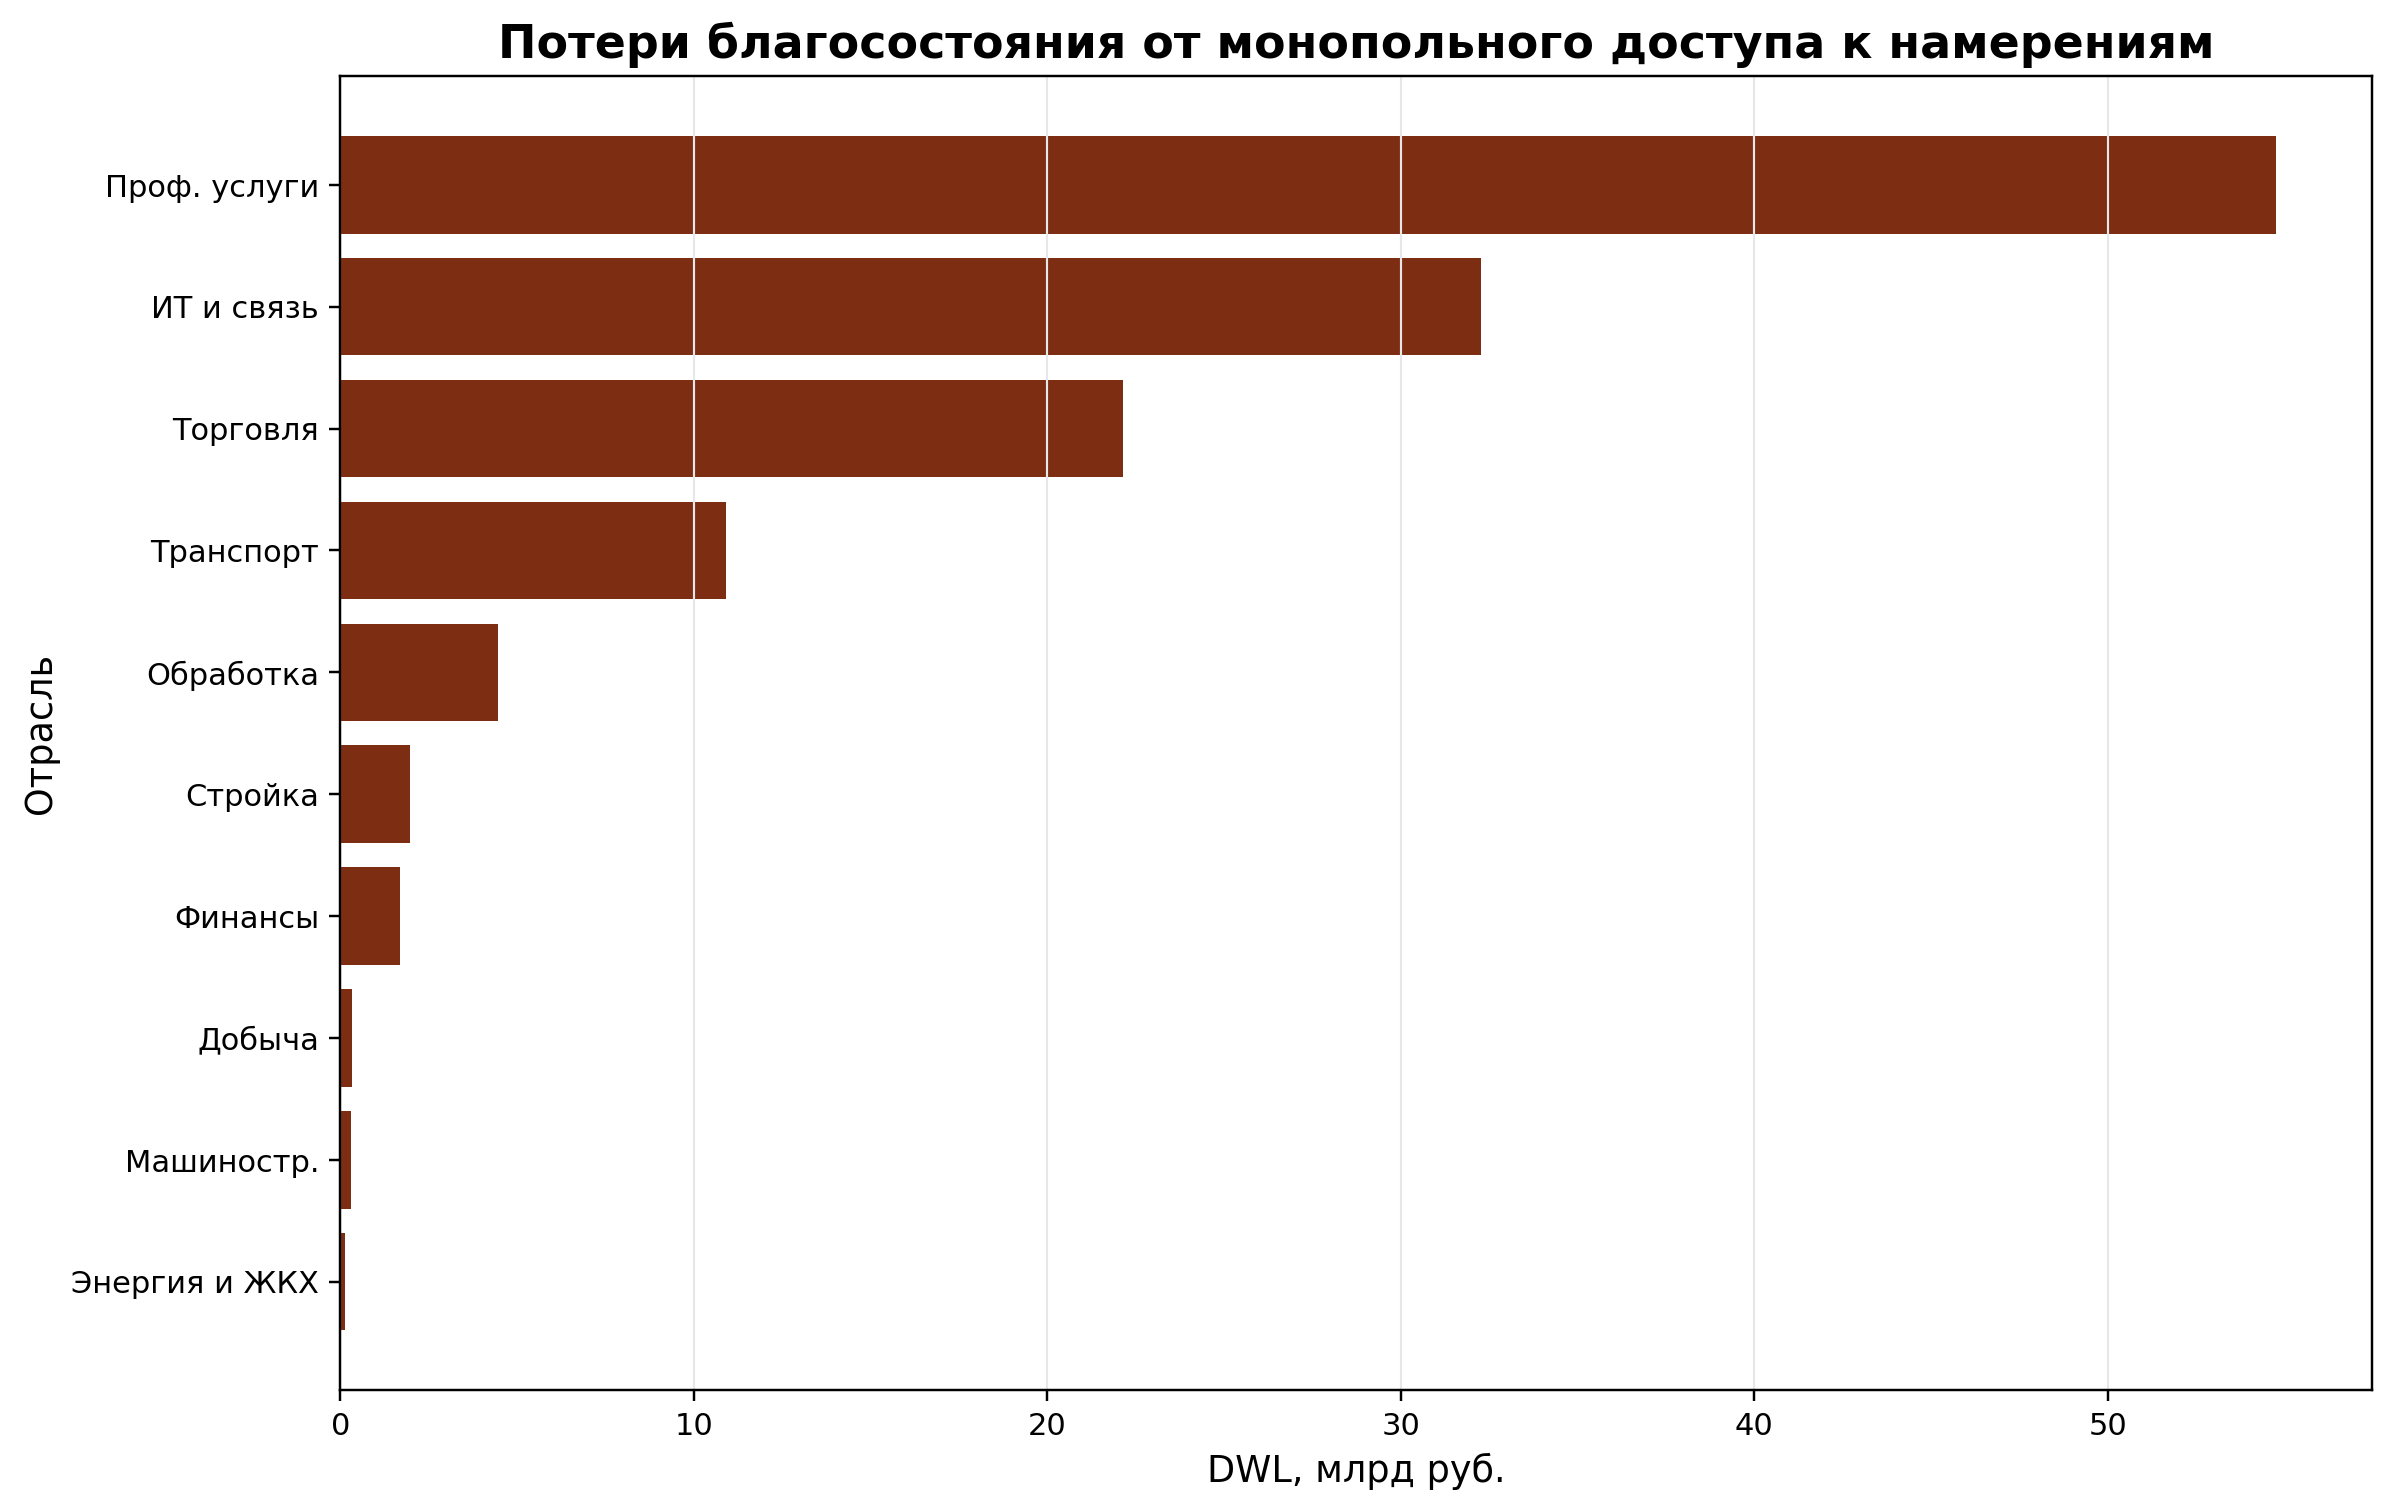
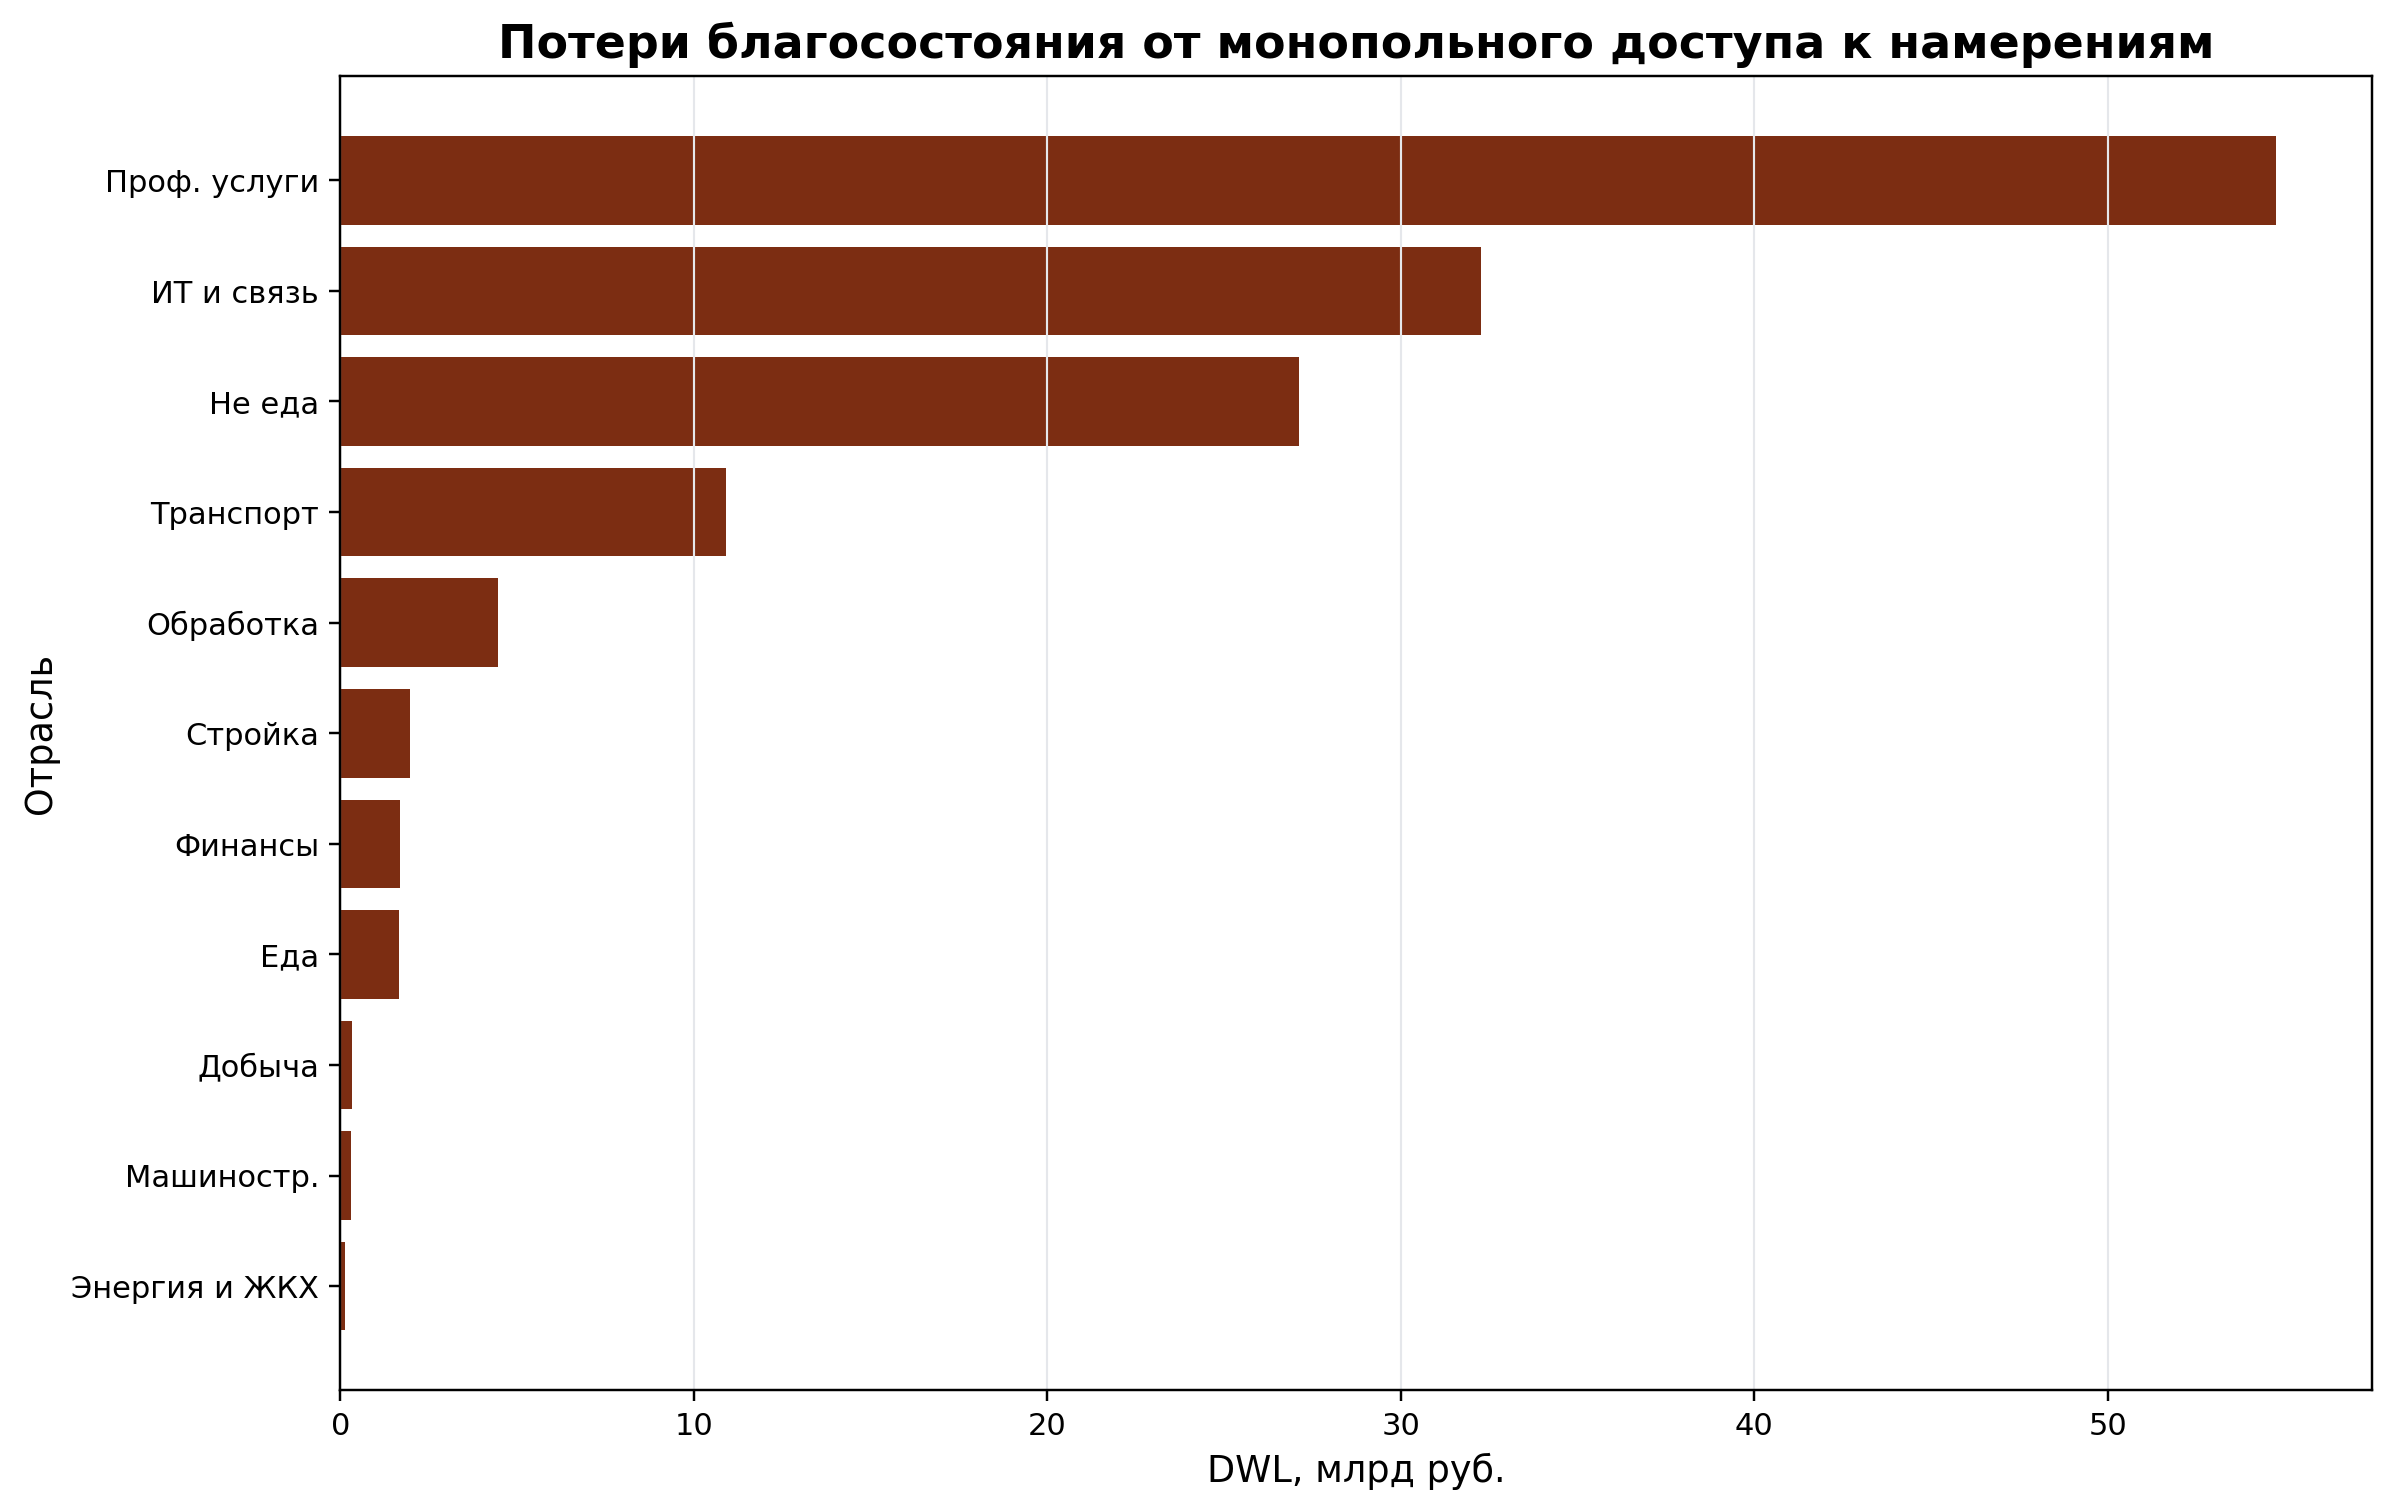
Split trade sensitivity in attention scenario

diff --git a/scripts/io_klems_attention.py b/scripts/io_klems_attention.py
@@ -38,6 +38,8 @@ SECTOR_LABELS = {
     "DE": "Энергия и ЖКХ",
     "F": "Стройка",
     "G": "Торговля",
+    "G_food": "Еда",
+    "G_nonfood": "Не еда",
     "H": "Транспорт",
     "J": "ИТ и связь",
     "K": "Финансы",
@@ -51,6 +53,8 @@ LABEL_OFFSETS = {
     "DE": (0.015, -0.030),
     "F": (0.015, 0.020),
     "G": (0.015, 0.015),
+    "G_food": (0.015, -0.030),
+    "G_nonfood": (0.015, 0.015),
     "H": (0.015, 0.012),
     "J": (0.015, 0.010),
     "K": (0.015, -0.030),
@@ -83,7 +87,37 @@ def load_model_inputs(config: dict) -> pd.DataFrame:
         ["sector_id", "delta_va_share_pp_2035", "incremental_va_2035_bn_rub"],
     ]
     cols = ["sector_id", "sector_name_ru", "ai_intensity", "va_current_bn_rub", "employment_thousand_persons"]
-    return baseline[cols].merge(returns, on="sector_id", how="left").merge(structure, on="sector_id", how="left")
+    inputs = baseline[cols].merge(returns, on="sector_id", how="left").merge(structure, on="sector_id", how="left")
+    return apply_retail_split(inputs, config)
+
+
+def apply_retail_split(inputs: pd.DataFrame, config: dict) -> pd.DataFrame:
+    split_cfg = config.get("retail_split")
+    if not split_cfg:
+        return inputs
+
+    source_sector = split_cfg["source_sector_id"]
+    source = inputs.loc[inputs["sector_id"].eq(source_sector)]
+    if source.empty:
+        return inputs
+
+    source_row = source.iloc[0]
+    component_rows: list[dict] = []
+    for component_id, component_cfg in split_cfg["components"].items():
+        share = float(component_cfg["va_share_within_source"])
+        record = source_row.to_dict()
+        record["sector_id"] = component_id
+        record["sector_name_ru"] = component_cfg["sector_name_ru"]
+        record["va_current_bn_rub"] = float(source_row["va_current_bn_rub"]) * share
+        record["employment_thousand_persons"] = float(source_row["employment_thousand_persons"]) * share
+        if pd.notna(source_row.get("incremental_va_2035_bn_rub")):
+            record["incremental_va_2035_bn_rub"] = float(source_row["incremental_va_2035_bn_rub"]) * share
+        component_rows.append(record)
+
+    return pd.concat(
+        [inputs.loc[~inputs["sector_id"].eq(source_sector)], pd.DataFrame(component_rows)],
+        ignore_index=True,
+    )
 
 
 def build_benchmarks(config: dict, inputs: pd.DataFrame) -> pd.DataFrame:
@@ -92,7 +126,7 @@ def build_benchmarks(config: dict, inputs: pd.DataFrame) -> pd.DataFrame:
         row = {"sector_id": sector_id, **priors}
         row["source"] = "Issue #7 expert ranges + team first-pass sector priors"
         row["year"] = config["scenario"]["baseline_year"]
-        row["confidence"] = "M" if sector_id in {"G", "J", "K", "M"} else "L"
+        row["confidence"] = "M" if sector_id in {"G", "G_food", "G_nonfood", "J", "K", "M"} else "L"
         row["assumption_tag"] = "[EXPERT_ASSUMPTION]"
         rows.append(row)
 

diff --git a/scripts/generate_attention_monopoly_report_pdf.py b/scripts/generate_attention_monopoly_report_pdf.py
@@ -140,7 +140,8 @@ def page_problem(pdf: PdfPages, summary: pd.DataFrame, abm: pd.DataFrame) -> Non
         "Гипотеза: пользовательские намерения концентрируются в 1-2 интерфейсах. Для отраслей это меняет цену доступа к спросу: "
         "часть компаний получает более дешёвое привлечение клиента через intent-based targeting, а уязвимые фирмы платят платформенную ренту "
         "или теряют прямой канал к пользователю. В терминах KLEMS это сценарий перераспределения S и K: расходы на маркетинг, медиа и "
-        "customer access перетекают в ИТ-экосистемы и капитальные активы платформ."
+        "customer access перетекают в ИТ-экосистемы и капитальные активы платформ. Агрегированная торговля G в этом отчёте разделена "
+        "на продукты питания и непродовольственные товары только внутри сценарного слоя, потому что базовые Rosstat/KLEMS таблицы пока дают G агрегатом."
     )
     wrapped_text(ax, 0.055, 0.750, text, width=120, fontsize=9.5)
 
@@ -169,7 +170,7 @@ def page_problem(pdf: PdfPages, summary: pd.DataFrame, abm: pd.DataFrame) -> Non
         0.28,
         0.16,
         "Цвет",
-        "Composite risk R_s от 0 до 100: зависимость от внимания, дефицит интеграции, markup, доля уязвимых МСП, gatekeeping exposure и AI adoption.",
+        "Composite risk R_s от 0 до 100: зависимость от внимания, дефицит интеграции, markup, доля уязвимых МСП и AI adoption.",
     )
 
     section_label(ax, 0.04, 0.345, "Ключевые числа базовой калибровки")
@@ -209,7 +210,6 @@ def page_model(pdf: PdfPages) -> None:
         r"$I_s \in [0,1]$ — способность встроиться в AI/platform stack",
         r"$m_s$ — platform markup за доступ к пользователю",
         r"$E_s$ — доля уязвимых МСП / игроков без собственного API-канала",
-        r"$G_s$ — gatekeeping exposure: риск ранжирования, lead allocation и default-рекомендаций",
         r"$A_s(2035)$ — adoption из существующего diffusion/capital-return слоя",
     ]
     y = 0.740
@@ -221,7 +221,7 @@ def page_model(pdf: PdfPages) -> None:
     ax.text(
         0.060,
         0.360,
-        r"$R_s = 100\left(w_DD_s+w_I(1-I_s)+w_m\frac{m_s}{\max_j m_j}+w_EE_s+w_GG_s+w_AA_s(2035)\right)$",
+        r"$R_s = 100\left(w_DD_s+w_I(1-I_s)+w_m\frac{m_s}{\max_j m_j}+w_EE_s+w_AA_s(2035)\right)$",
         fontsize=15.0,
         color=INK,
     )
@@ -257,7 +257,7 @@ def page_risk_gradient(pdf: PdfPages, summary: pd.DataFrame) -> None:
     top = summary.sort_values("attention_risk_score", ascending=False).head(5).copy()
     top_table = pd.DataFrame(
         {
-            "Сектор": top["sector_label_ru"],
+            "Сектор": top["sector_id"],
             "D": top["attention_dependency"].map(lambda x: f"{x:.2f}"),
             "I": top["integration_capacity"].map(lambda x: f"{x:.2f}"),
             "R": top["attention_risk_score"].map(lambda x: f"{x:.1f}"),
@@ -289,9 +289,9 @@ def page_gva_results(pdf: PdfPages, summary: pd.DataFrame) -> None:
     winners = summary.sort_values("attention_gva_shift_bn_rub", ascending=False).head(4)
     table = pd.DataFrame(
         {
-            "Потери": losers["sector_label_ru"].to_list(),
+            "Losers": losers["sector_id"].to_list(),
             "ΔVA, млрд": losers["attention_gva_shift_bn_rub"].map(lambda x: f"{x:.0f}").to_list(),
-            "Выигрыш": winners["sector_label_ru"].to_list(),
+            "Winners": winners["sector_id"].to_list(),
             "ΔVA, млрд ": winners["attention_gva_shift_bn_rub"].map(lambda x: f"{x:.0f}").to_list(),
         }
     )
@@ -331,12 +331,12 @@ def page_abm_dwl(pdf: PdfPages, summary: pd.DataFrame, dwl: pd.DataFrame) -> Non
     top_dwl = dwl.sort_values("deadweight_loss_bn_rub", ascending=False).head(5)
     dwl_table = pd.DataFrame(
         {
-            "Сектор": top_dwl["sector_label_ru"],
+            "Сектор": top_dwl["sector_id"],
             "DWL, млрд": top_dwl["deadweight_loss_bn_rub"].map(lambda x: f"{x:.1f}"),
             "markup": top_dwl["platform_markup_mid"].map(lambda x: f"{x:.2f}"),
         }
     )
-    section_label(ax, 0.61, 0.450, "Максимальные welfare losses")
+    section_label(ax, 0.61, 0.450, "Top welfare losses")
     add_table(ax, dwl_table, [0.61, 0.225, 0.31, 0.185], fontsize=8.4)
     total_dwl = float(dwl["deadweight_loss_bn_rub"].sum())
     wrapped_text(
@@ -366,6 +366,7 @@ def page_assumptions(pdf: PdfPages, summary: pd.DataFrame) -> None:
             ["Platform markup", "3-22% midpoint by sector", "marketplace/API proxy"],
             ["CAC saving", "4-30% midpoint by sector", "intent targeting proxy"],
             ["SME vulnerability", "20-70% by sector", "expert assumption"],
+            ["Trade split", "food 30%; non-food 70% of G", "scenario-layer proxy"],
         ],
         columns=["Параметр", "Значение", "Источник"],
     )
@@ -374,7 +375,7 @@ def page_assumptions(pdf: PdfPages, summary: pd.DataFrame) -> None:
     table = summary.sort_values("attention_risk_score", ascending=False).copy()
     diagnostic = pd.DataFrame(
         {
-            "Сектор": table["sector_label_ru"],
+            "Сектор": table["sector_id"],
             "R": table["attention_risk_score"].map(lambda x: f"{x:.1f}"),
             "Fee": table["platform_access_fee_bn_rub"].map(lambda x: f"{x:.0f}"),
             "CAC gain": table["cac_saving_va_gain_bn_rub"].map(lambda x: f"{x:.0f}"),

diff --git a/docs/attention_monopoly_scenario.md b/docs/attention_monopoly_scenario.md
@@ -38,15 +38,15 @@ VA_s \bar A D_s I_s c_s \rho
 | sector_id | sector_name_ru | attention_dependency | integration_capacity | platform_markup_mid | vulnerable_sme_share | gatekeeping_exposure | attention_risk_score |
 | --- | --- | --- | --- | --- | --- | --- | --- |
 | M | Профессиональные и научные услуги | 0.700 | 0.550 | 0.220 | 0.650 | 0.700 | 69.880 |
+| G_nonfood | Торговля: непродовольственные товары | 0.900 | 0.680 | 0.120 | 0.800 | 0.850 | 68.234 |
 | J | ИТ и связь | 0.900 | 0.900 | 0.180 | 0.200 | 0.800 | 63.653 |
 | K | Финансы и страхование | 0.850 | 0.650 | 0.060 | 0.450 | 0.900 | 63.471 |
-| G | Оптовая и розничная торговля | 0.850 | 0.700 | 0.100 | 0.700 | 0.750 | 61.970 |
 | H | Транспорт и логистика | 0.450 | 0.450 | 0.120 | 0.550 | 0.550 | 49.748 |
+| G_food | Торговля: продукты питания | 0.650 | 0.750 | 0.070 | 0.450 | 0.550 | 46.425 |
 | C | Обрабатывающая промышленность без машиностроения | 0.350 | 0.400 | 0.080 | 0.450 | 0.350 | 41.106 |
 | F | Строительство | 0.350 | 0.450 | 0.080 | 0.550 | 0.350 | 40.021 |
 | DE | Энергетика и ЖКХ | 0.300 | 0.400 | 0.050 | 0.300 | 0.450 | 38.061 |
 | C_mach | Машиностроение (ОКВЭД 26–30) | 0.250 | 0.500 | 0.060 | 0.350 | 0.300 | 32.743 |
-| B | Добыча полезных ископаемых | 0.150 | 0.450 | 0.050 | 0.200 | 0.250 | 26.475 |
 
 ## 3. Net GVA Shift
 
@@ -59,9 +59,9 @@ VA_s \bar A D_s I_s c_s \rho
 | B | Добыча полезных ископаемых | 22.230 | 15.157 | -7.073 | 37.388 |
 | DE | Энергетика и ЖКХ | 11.393 | 5.843 | -5.550 | 17.236 |
 | C_mach | Машиностроение (ОКВЭД 26–30) | 11.420 | 9.869 | -1.551 | 21.290 |
+| G_food | Торговля: продукты питания | 21.915 | 116.592 | 94.677 | 138.507 |
 | K | Финансы и страхование | 47.677 | 203.548 | 155.871 | 251.226 |
-| G | Оптовая и розничная торговля | 191.994 | 658.804 | 466.810 | 850.798 |
-| J | ИТ и связь | 25.825 | 322.815 | 803.875 | 348.640 |
+| G_nonfood | Торговля: непродовольственные товары | 192.861 | 531.259 | 338.399 | 724.120 |
 
 ## 4. Deadweight Loss
 
@@ -69,14 +69,14 @@ VA_s \bar A D_s I_s c_s \rho
 | --- | --- | --- | --- | --- |
 | M | Профессиональные и научные услуги | 0.220 | 0.700 | 54.752 |
 | J | ИТ и связь | 0.180 | 0.900 | 32.282 |
-| G | Оптовая и розничная торговля | 0.100 | 0.850 | 22.136 |
+| G_nonfood | Торговля: непродовольственные товары | 0.120 | 0.900 | 27.121 |
 | H | Транспорт и логистика | 0.120 | 0.450 | 10.921 |
 | C | Обрабатывающая промышленность без машиностроения | 0.080 | 0.350 | 4.451 |
 | F | Строительство | 0.080 | 0.350 | 1.963 |
 | K | Финансы и страхование | 0.060 | 0.850 | 1.691 |
+| G_food | Торговля: продукты питания | 0.070 | 0.650 | 1.658 |
 | B | Добыча полезных ископаемых | 0.050 | 0.150 | 0.323 |
 | C_mach | Машиностроение (ОКВЭД 26–30) | 0.060 | 0.250 | 0.305 |
-| DE | Энергетика и ЖКХ | 0.050 | 0.300 | 0.140 |
 
 ## 5. Artifacts
 